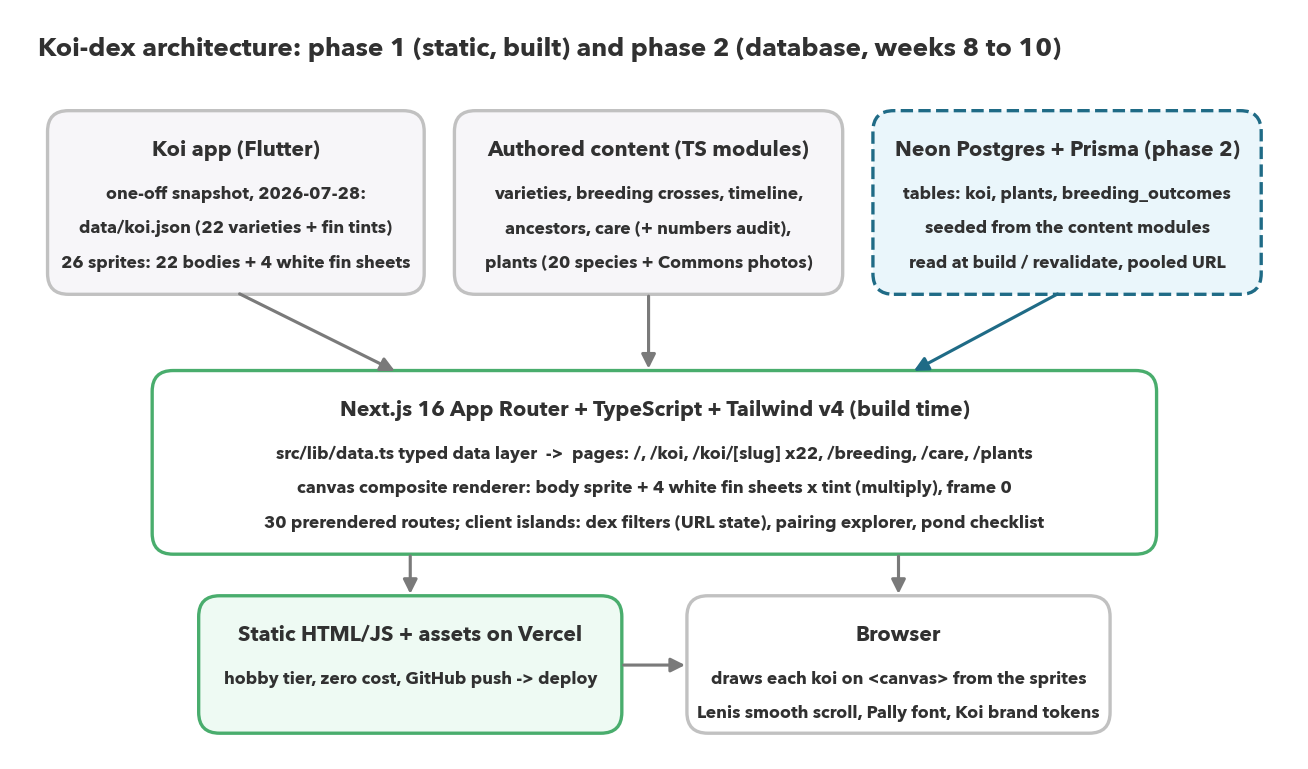
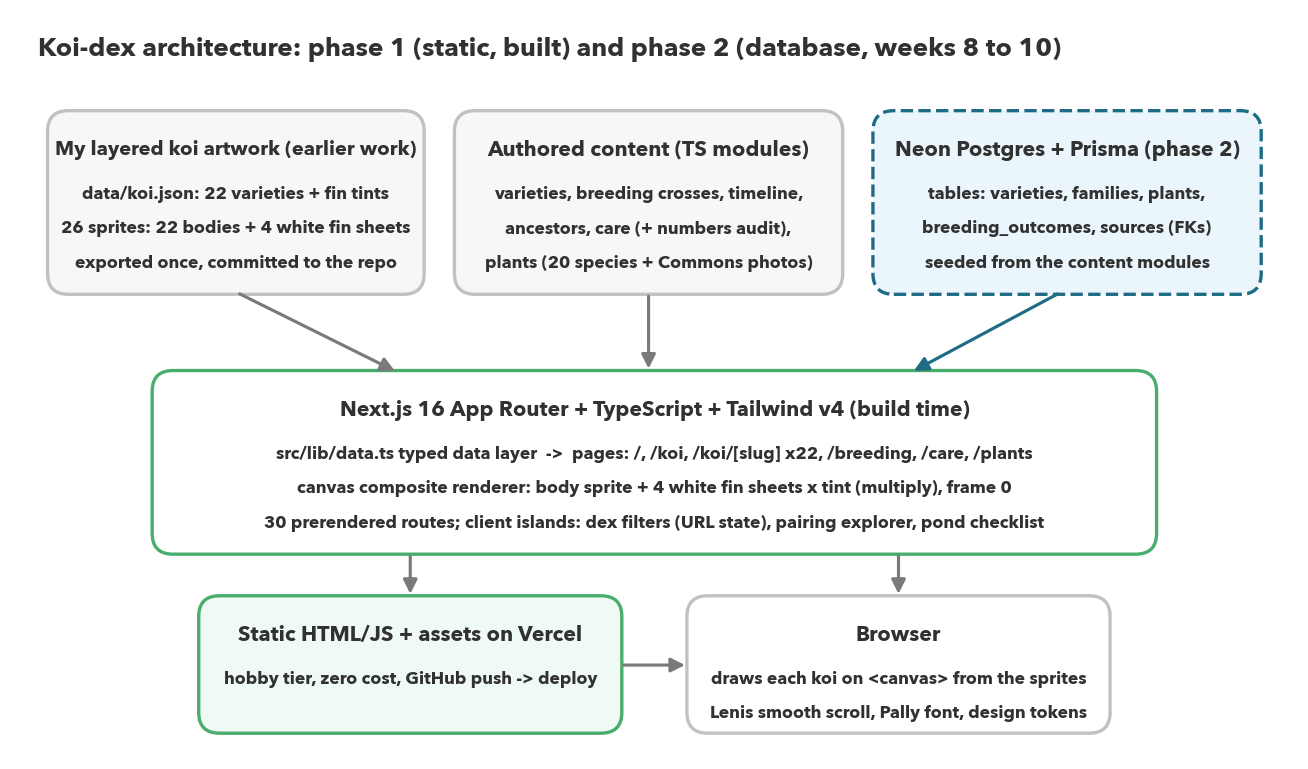
Mid-point review: present Koi-dex standalone (artwork = own earlier work)

Changed region(s): [[0.0306, 0.1873, 0.3364, 0.3745], [0.7034, 0.2185, 0.948, 0.3745], [0.5199, 0.9051, 0.8563, 0.9363]]

diff --git a/docs/Weekly_Reflection/MidPoint_Review.md b/docs/Weekly_Reflection/MidPoint_Review.md
@@ -12,7 +12,7 @@
 
 ### What the project is and who it is for
 
-Koi-dex is a beginner-friendly reference website about real koi. Information about koi online is scattered across forums and dealer sites, is often written to sell fish, and mixes Japanese terms without explaining them. Koi-dex puts the essentials in one clean, ad-free place: a koi-dex of 22 real varieties, each drawn as a layered illustration; a breeding guide showing which varieties came from which; a care guide; and a pond plants section. It is aimed at someone new to koi, and it is written from New Zealand, which turned out to matter (see Findings). It is a solo project for GENR.7100 with Toi Ohomai as the client, built with Next.js 16, TypeScript and Tailwind CSS v4, reusing my own koi artwork and design system from an earlier app.
+Koi-dex is a beginner-friendly reference website about real koi. Information about koi online is scattered across forums and dealer sites, is often written to sell fish, and mixes Japanese terms without explaining them. Koi-dex puts the essentials in one clean, ad-free place: a koi-dex of 22 real varieties, each drawn as a layered illustration; a breeding guide showing which varieties came from which; a care guide; and a pond plants section. It is aimed at someone new to koi, and it is written from New Zealand, which turned out to matter (see Findings). It is a solo project for GENR.7100 with Toi Ohomai as the client, built with Next.js 16, TypeScript and Tailwind CSS v4, reusing my own hand-drawn layered koi artwork and my own design system from earlier personal projects.
 
 ### Where I am on the timeline
 
@@ -32,16 +32,16 @@ The site builds green with 30 prerendered routes (home, dex, 22 variety pages, b
 
 ### What is completed and not completed, and why
 
-**Completed:** all six routes with the full Koi design language; the canvas koi renderer that reproduces the app's layered drawing (one body sprite plus four shared white fin sheets, each tinted by multiplying with the variety's colour); sourced variety notes for all 22 koi; the breeding guide rebuilt as a family tree, pairing explorer, sprite cross cards, spawn funnel and timeline; each koi's page acting as the hub for its own care and breeding information; the care guide expanded to twelve sections with every figure checked against two sources and a new-pond checklist; and the pond plants research (20 species, sources, licensed photos, New Zealand legal status) written up as a data module ready to seed the database.
+**Completed:** all six routes with the full Koi design language; the canvas koi renderer that draws each fish from its layers (one body sprite plus four shared white fin sheets, each tinted by multiplying with the variety's colour); sourced variety notes for all 22 koi; the breeding guide rebuilt as a family tree, pairing explorer, sprite cross cards, spawn funnel and timeline; each koi's page acting as the hub for its own care and breeding information; the care guide expanded to twelve sections with every figure checked against two sources and a new-pond checklist; and the pond plants research (20 species, sources, licensed photos, New Zealand legal status) written up as a data module ready to seed the database.
 
 **Not completed, by design:** the database phase, the plants pages, deployment, the accessibility pass and user testing. The plan deliberately put content research (weeks 3–6) before the database (weeks 8–10) so that the schema is designed from real, finished data rather than guessed at. Everything not yet started is scheduled, and nothing planned for weeks 2–7 has slipped.
 
 ### Problems encountered and solutions
 
-- **Drawing the koi.** There is no finished picture of each koi; the app builds every fish from a body plus fins tinted per variety. My first canvas version wiped out lower layers when tinting a fin, because the transparent parts of the fin erased what was underneath. Fix: tint each fin on its own offscreen canvas, then stack. The shared fin sheets are large (3440×1856), so I cache decoded images at module level and a page of 22 koi decodes each sheet once.
+- **Drawing the koi.** There is no finished picture of each koi; my artwork is layered, a body plus fins that are tinted per variety, so every fish has to be assembled in the browser. My first canvas version wiped out lower layers when tinting a fin, because the transparent parts of the fin erased what was underneath. Fix: tint each fin on its own offscreen canvas, then stack. The shared fin sheets are large (3440×1856), so I cache decoded images at module level and a page of 22 koi decodes each sheet once.
 - **How many koi.** I started at 25 and found three were app-original colourways, not real varieties. Cutting to 22 early avoided building pages for fish that do not exist.
 - **The breeding guide was boring.** The first version was accurate but text-only. I redesigned it before touching code (new wireframes) and rebuilt it around the fish themselves.
-- **Ancestors with no artwork.** Many varieties descend from fish the app has no sprites for (Magoi, Kigoi, Soragoi, Nezu Ogon, German mirror carp). They now appear as named, dashed nodes in the tree, and a section on the breeding page names the real varieties the site has no art for.
+- **Ancestors with no artwork.** Many varieties descend from fish I have no artwork for (Magoi, Kigoi, Soragoi, Nezu Ogon, German mirror carp). They now appear as named, dashed nodes in the tree, and a section on the breeding page names the real varieties the site has no art for.
 - **My own numbers were wrong.** The two-source check in week 5 found the ulcer-disease temperature band inverted (I had warm water; the sources say cool transitional water) and a quarantine figure no source supported. Both were fixed, and the check is now published as a table on the page.
 - **Legal reality in New Zealand.** Koi carp are an Unwanted Organism and a noxious fish here, and five of the twenty pond plants I researched are banned pest plants. The site now says so plainly rather than recommending things a New Zealand reader cannot legally do.
 - **Tooling.** Headless Chrome will not render narrower than 500 px, which made phone screenshots look broken; I render pages inside a 390 px frame instead. The React Compiler's lint rule rejected setting state inside effects for the checklist and the dex filters; both were rewritten with `useSyncExternalStore`, treating browser storage and the URL as external stores, which is the idiomatic pattern and also removes a load flicker.
@@ -76,7 +76,7 @@ Polishing what exists (copy, lint, layout on phones), capturing screenshots of e
 
 ### Research undertaken and what it feeds
 
-- **Technical research** into how the Koi app stores and draws koi (Supabase schema, the Flutter composite painter). Result: the site draws every koi exactly as the app does, from a 22-row JSON snapshot and 26 sprite files (about 490 KB), with no runtime dependency on the app.
+- **Technical research** into how my existing layered artwork is structured and how the original renderer composited it, so the site could reproduce it. Result: the site draws every koi from a 22-row JSON file and 26 sprite files (about 490 KB), with no runtime dependency on anything else.
 - **Content research** for the 22 varieties (name meanings, families, patterns, origins), 15 documented historical crosses, origin years, ancestor varieties, and per-variety care notes, all with sources.
 - **Care research** across veterinary and koi-organisation sources (Merck Veterinary Manual, VIN, WOAH, Koi Organisation International, koi farms). Result: 30 figures each checked against two sources.
 - **Plants research** for 20 species with two general sources each (RHS, university extension pages, botanical gardens, koi farms) plus a New Zealand status source (NZPCN, Weedbusters, DOC).
@@ -87,8 +87,8 @@ All of it is on the site or ready to seed the database, and every page links its
 
 ### Important results and findings
 
-1. **The rendering recipe is exact.** A koi is one untinted body plus four fin layers drawn into the same rectangle in the order back fin, tail, body, dorsal, side fin, with each fin sheet multiplied by a hex tint. Only Asagi and Shusui use a per-fin override. Reproducing this on canvas gives fish that match the app pixel for pixel.
-2. **The variety list is 22, not 25.** Three of the app's first 25 catalogue entries are app-original colourways.
+1. **The rendering recipe is exact.** A koi is one untinted body plus four fin layers drawn into the same rectangle in the order back fin, tail, body, dorsal, side fin, with each fin sheet multiplied by a hex tint. Only Asagi and Shusui use a per-fin override. Reproducing this on canvas gives fish that match the original artwork pixel for pixel.
+2. **The variety list is 22, not 25.** Three of the 25 koi in my artwork set are colourways I invented, not real varieties, so they were cut.
 3. **Breeding facts are messier than dealer sites suggest.** Founding fish for Sanke and Kumonryu are disputed, Tancho cannot be bred to order, and no cross reliably produces a variety. The guide says so.
 4. **Two of my care numbers were wrong and six more were tightened.** Of 30 figures, 16 agreed outright, 6 were close with a differing range, and 8 changed after checking (ulcer band, quarantine minimum, KH, nitrate, filter turnover, herpesvirus temperature, comfortable temperature, and the feeding-frequency table). The old feeding table contradicted the text and was rebuilt.
 5. **Koi are a controlled pest in New Zealand.** Possessing noxious fish without approval is an offence, and koi need DOC (and possibly MPI) approval. This is now the first thing on the care guide.
@@ -97,7 +97,7 @@ All of it is on the site or ready to seed the database, and every page links its
 
 ### Problems, things that did not work, and changes
 
-- **Tried and dropped:** the app's flat preview images on the dex grid (swapped for the real layered koi, and the previews deleted); a text-only breeding guide (redesigned); a fixed feeding table copied from one source (rebuilt from two); first-choice plant photos for five species (rejected on inspection and replaced); state-in-effect patterns for the checklist and filters (rewritten as external stores).
+- **Tried and dropped:** flat pre-rendered preview images on the dex grid (swapped for the real layered koi, and the previews deleted); a text-only breeding guide (redesigned); a fixed feeding table copied from one source (rebuilt from two); first-choice plant photos for five species (rejected on inspection and replaced); state-in-effect patterns for the checklist and filters (rewritten as external stores).
 - **Changed outcomes:** the koi detail page became the per-variety hub for care and breeding, which was not in the original wireframes; New Zealand legal status was added to both the care guide and the plants data; the numbers audit became a visible feature rather than a private check.
 - **Changed plan for phase 2:** feedback on the proposal was that a static reference site is a modest technical challenge at Level 7 and that the database phase must carry real weight. I agree, and I have reshaped weeks 8–14 accordingly (below).
 
